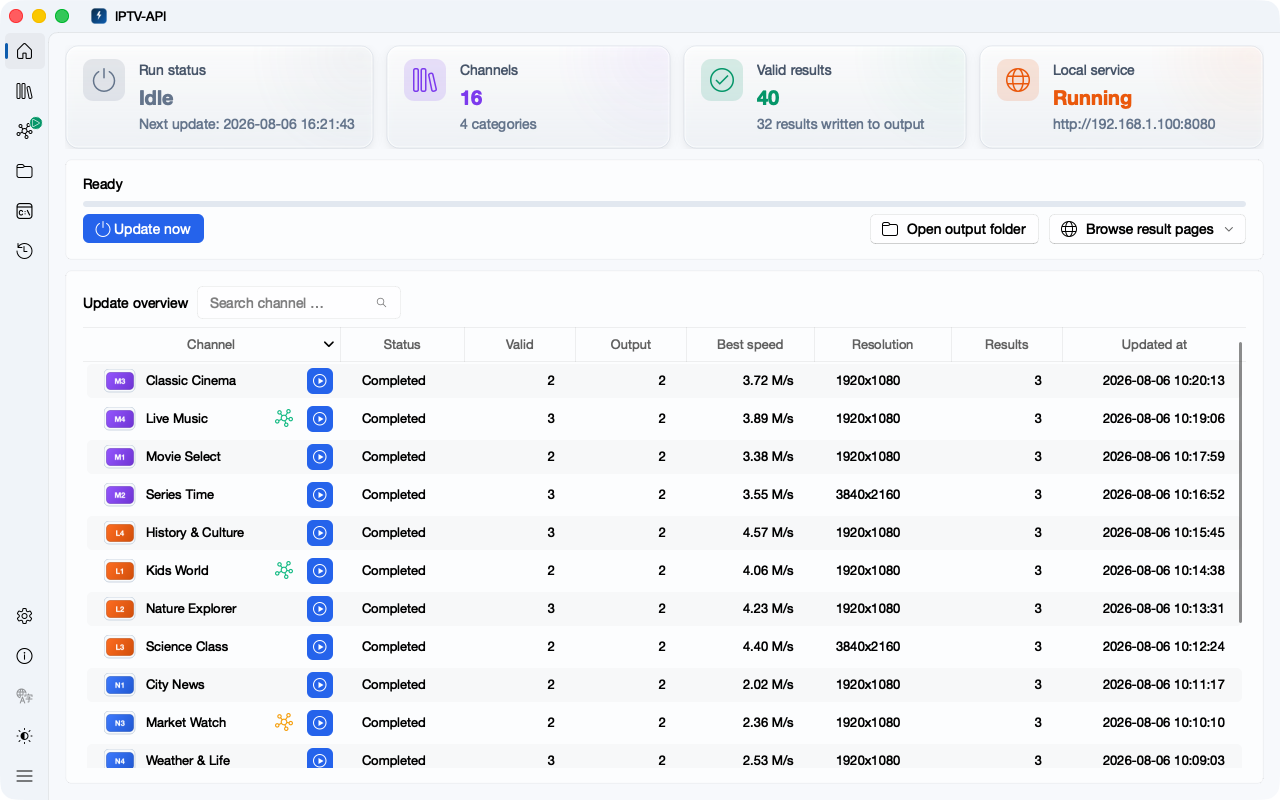
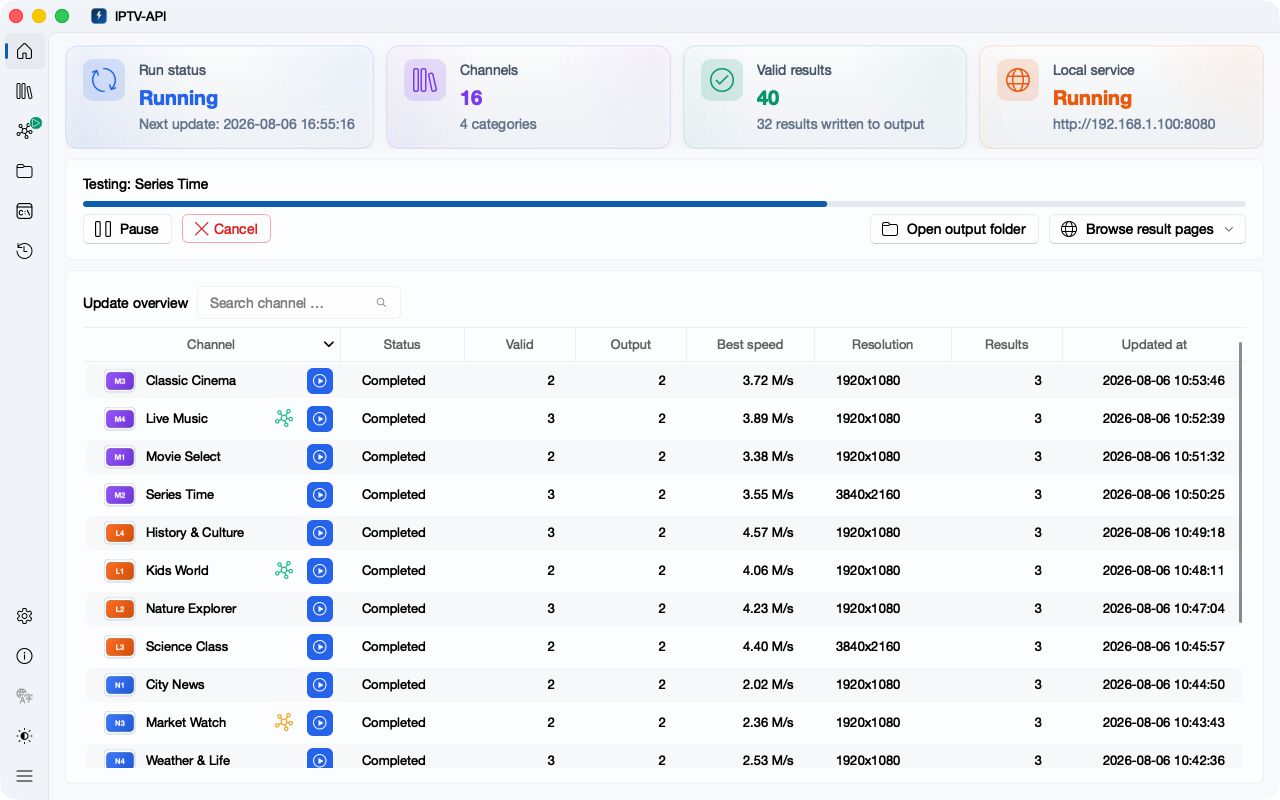
feat: simulate running dashboard showcase state

diff --git a/scripts/gui_showcase/capture.py b/scripts/gui_showcase/capture.py
@@ -213,6 +213,15 @@ def capture_language(language: str, output_dir: Path) -> int:
         window.dashboard.set_stream_snapshot(snapshot)
         window.channels.set_stream_snapshot(snapshot)
         window._update_rtmp_navigation_status(snapshot)
+        # Put only the dashboard into its running visual state. Do not call
+        # run_once(): showcase screenshots must never start real update work.
+        window.dashboard.set_running(True)
+        window.dashboard.progress.setValue(64)
+        window.dashboard.progress_title.setText(
+            t("desktop.testing_channel").format(
+                name=window.dashboard.channel_model.rows[3]["name"]
+            )
+        )
         next_update = datetime.now() + timedelta(hours=6)
         window.dashboard.status_card.detail_label.setText(
             t("desktop.next_update_time").format(
@@ -275,6 +284,10 @@ def capture_language(language: str, output_dir: Path) -> int:
             state_ready = (
                 model.rowCount() == 16
                 and window._service_status == "running"
+                and window.dashboard._running
+                and window.dashboard.progress.value() == 64
+                and window.dashboard.pause_button.isVisible()
+                and window.dashboard.cancel_button.isVisible()
                 and snapshot["active_count"] == 2
                 and snapshot["starting_count"] == 1
                 and logos_ready
@@ -284,7 +297,8 @@ def capture_language(language: str, output_dir: Path) -> int:
                 _activate_macos_application()
                 window.raise_()
                 window.activateWindow()
-                QTimer.singleShot(500, finish_capture)
+                # Let the activity/glass animation paint at least one frame.
+                QTimer.singleShot(700, finish_capture)
                 return
             if time.monotonic() >= deadline:
                 fail(

diff --git a/AGENTS.md b/AGENTS.md
@@ -36,6 +36,14 @@
 - When home-page regeneration is required, generate both Chinese and English
   screenshots, then verify demo data, service status, stream states, local
   logos, collapsed navigation, window focus, and native title-bar controls.
+- The checked-in home-page screenshots should show the Dashboard cards in the
+  simulated running visual state, including glass/activity colors and progress
+  controls. The showcase generator must use Dashboard UI-state injection only;
+  it must not call the real update workflow, start update threads, make network
+  requests, or invoke FFmpeg.
+- After setting the simulated running state, wait for at least one activity
+  animation frame before capturing. Validate that the dashboard is running,
+  progress is non-zero, and pause/cancel controls are visible.
 - Visually inspect regenerated screenshots before staging or committing them.
 - CI may report stale screenshots or validate fixtures, but must not
   automatically commit regenerated binary assets.

diff --git a/scripts/gui_showcase/README.md b/scripts/gui_showcase/README.md
@@ -5,9 +5,11 @@ desktop GUI screenshots. It is excluded from Docker images and must not be
 imported by production modules or included in PyInstaller data files.
 
 The generator creates a temporary SQLite channel repository and local channel
-logos, injects synthetic service and RTMP states, waits for the window to be
-ready, and captures the focused native macOS window. It does not run an update,
-start a page service, contact demo stream URLs, or modify `config/` and
+logos, injects synthetic service and RTMP states, and puts the Dashboard into
+its simulated running visual state so the card glass/activity colors and
+progress controls are visible. It waits for the window to be ready and
+captures the focused native macOS window. It does not run an update, start a
+page service, contact demo stream URLs, invoke FFmpeg, or modify `config/` and
 `output/`.
 
 ## Generate screenshots
